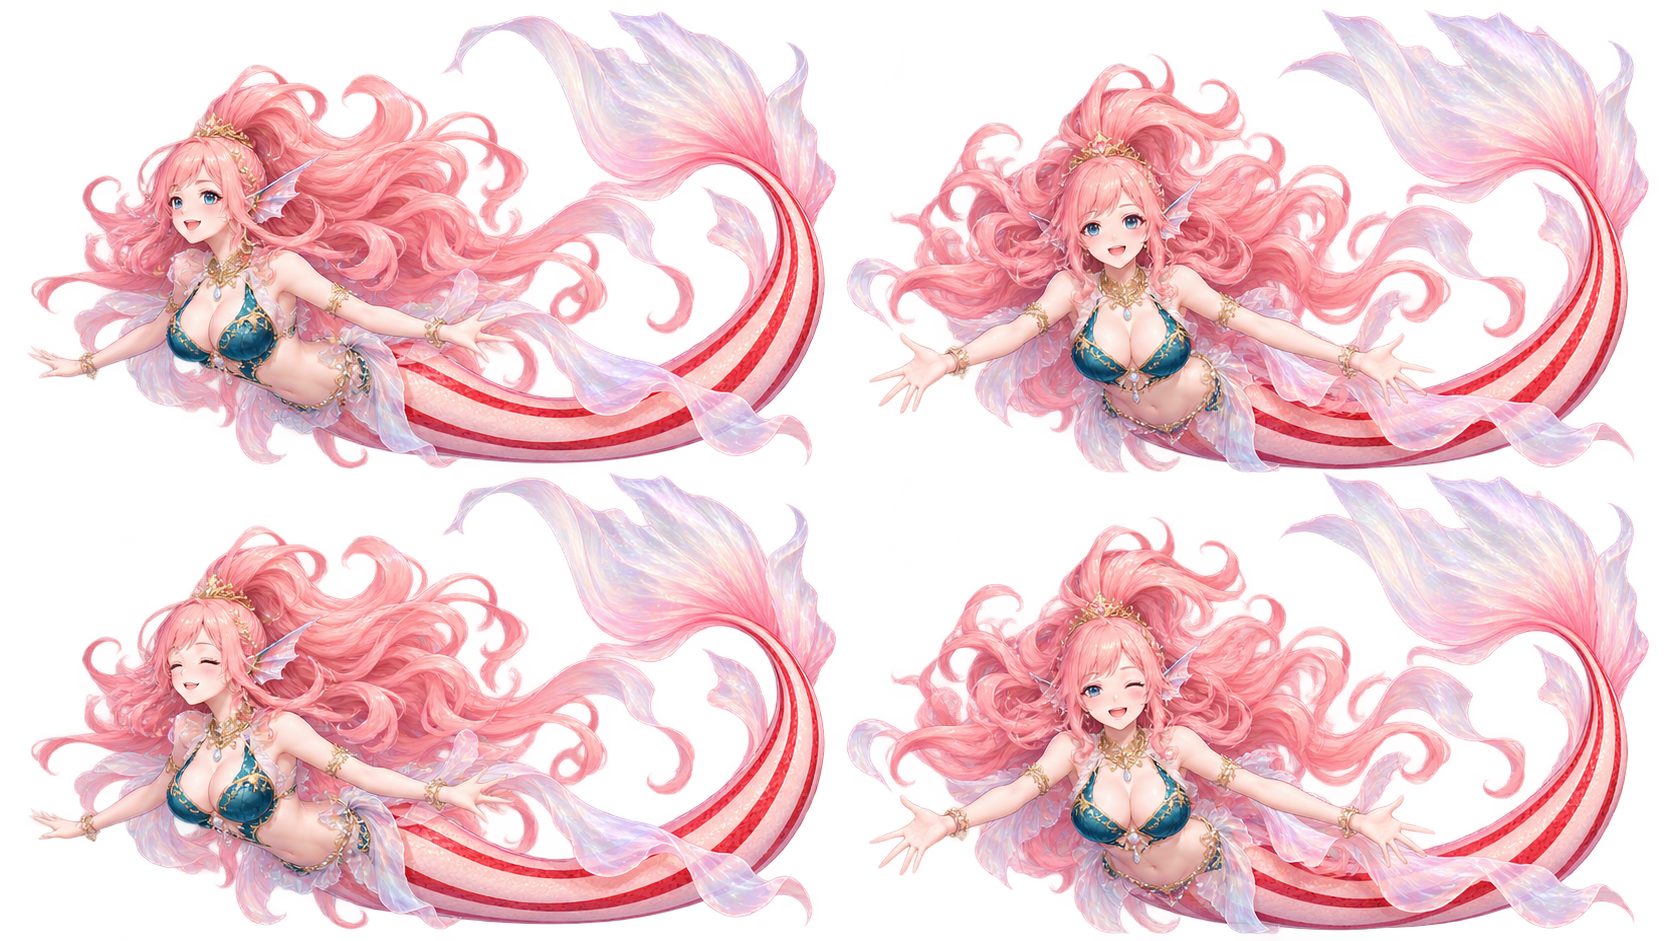
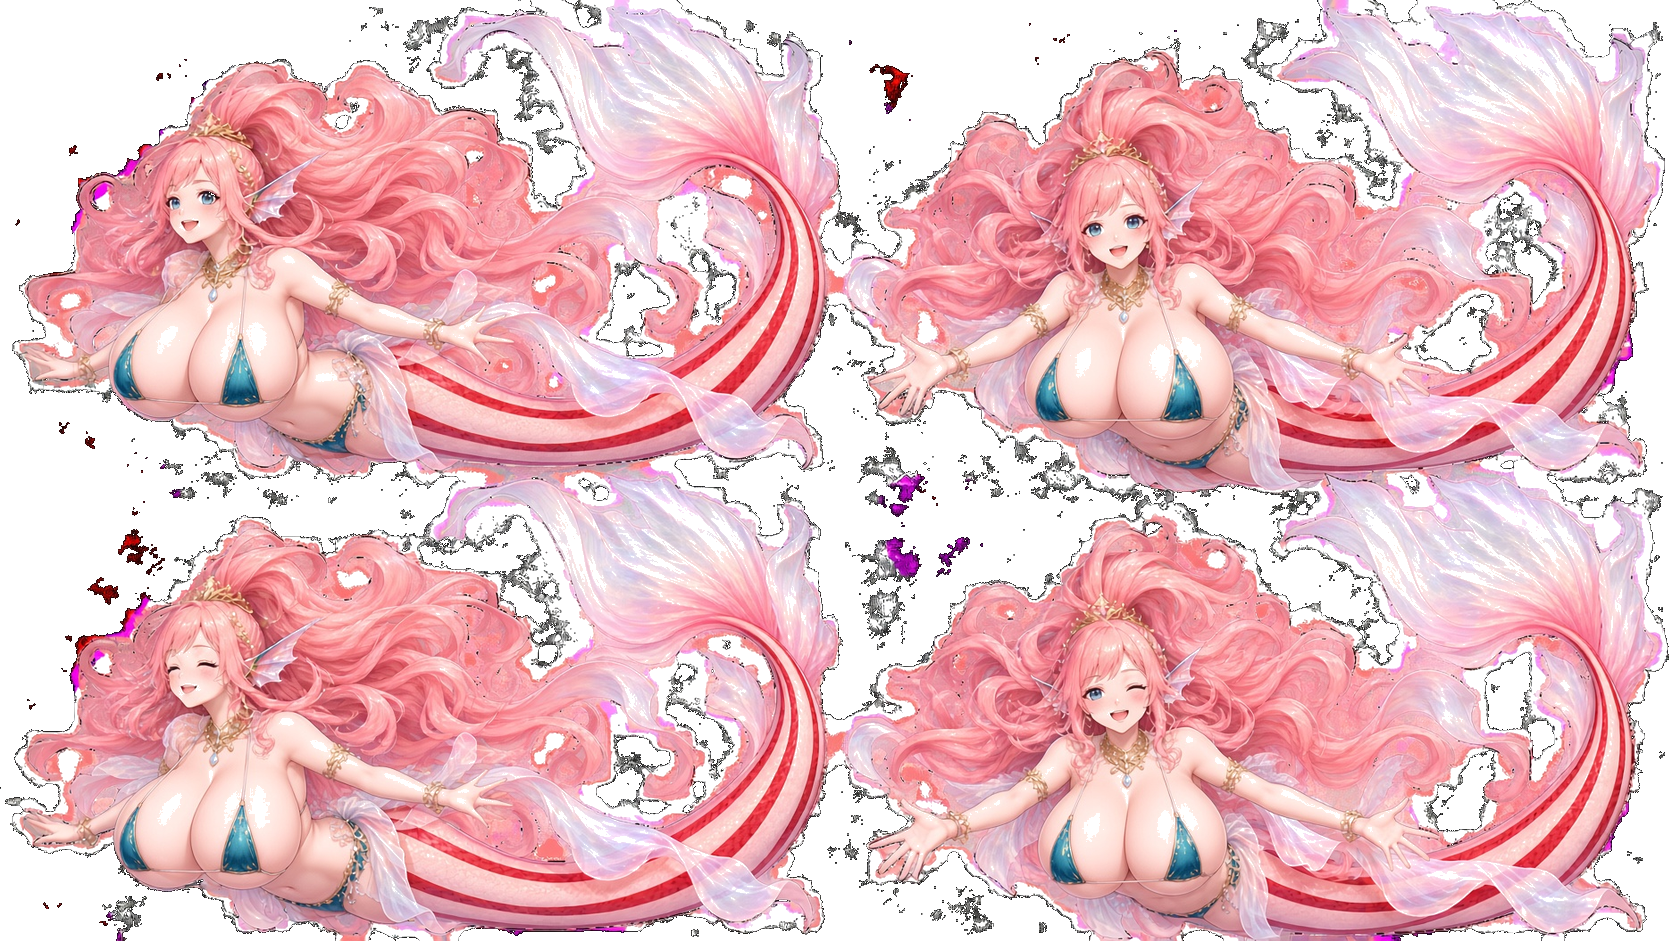
修改圖片素材

diff --git a/index.html b/index.html
@@ -1,5 +1,5 @@
 <!doctype html><html lang="zh-Hant"><head><meta charset="utf-8"><meta name="viewport" content="width=device-width,initial-scale=1,viewport-fit=cover"><meta name="theme-color" content="#102b34"><meta name="description" content="養大有名字的小魚，送牠上學，收藏閃亮寶石。支援手機、鍵盤與螢幕閱讀器的休閒水族箱。"><link rel="manifest" href="manifest.webmanifest"><link rel="icon" href="icon.svg" type="image/svg+xml"><link rel="stylesheet" href="style.css?v=0.41.2"><title>深海優游 · 你的療癒水族箱</title></head><body>
-<a class="skip" href="#controls">跳到遊戲操作</a><header><a class="brand" href="#">✦ <span>深海優游<small>DEEP SEA AQUARIUM</small></span></a><span class="version">養一片屬於你的海 <b>v0.41.2</b></span><button id="viewMode" aria-pressed="false">進入水族箱觀賞模式</button></header>
+<a class="skip" href="#controls">跳到遊戲操作</a><header><a class="brand" href="#">✦ <span>深海優游<small>DEEP SEA AQUARIUM</small></span></a><span class="version">養一片屬於你的海 <b>v0.41.3</b></span><button id="viewMode" aria-pressed="false">進入水族箱觀賞模式</button></header>
 <main><div class="intro"><div><p class="eyebrow">YOUR LITTLE OCEAN</p><h1 id="tankTitle">讓小小的相遇，慢慢長大。</h1><p id="welcomeText">從第一條魚苗開始，收藏每天的閃閃發光。</p></div><div class="wallet"><span>你的金幣</span><strong id="coins">500</strong><small>✦ 寶石能換成金幣</small></div></div>
 <div class="layout"><section class="ocean-wrap" aria-labelledby="sceneTitle"><div id="frameControls" hidden><button id="exitView" aria-label="返回養成模式" title="返回養成模式"><span aria-hidden="true">‹</span></button><span id="frameName"></span><span id="frameTheme"></span><span id="frameHint">橫放裝置，讓水族箱鋪滿畫面。</span><span id="frameStatus" class="sr-only" role="status" aria-live="polite"></span></div><div id="tank" class="tank" aria-hidden="true"><div id="wonderA" class="wonder-layer"></div><div id="wonderB" class="wonder-layer"></div><div class="wonder-water"></div><div class="lightbeam"></div><div class="water-halo"></div><div class="bubbles"><i></i><i></i><i></i><i></i><i></i></div><div class="rocks r1"></div><div class="rocks r2"></div><div class="plant p1">〰</div><div class="plant p2">〰</div><div class="sand"></div><div id="visualFish"></div><div id="visualGems"></div><div id="visualDecor"></div><div id="emptyScene"><span>✧</span><p>一片寧靜的海，等你帶小魚回家。</p></div></div><div class="scene-top"><h2 id="sceneTitle">我的水族箱</h2><span id="fishCount">0 / 15 條魚</span><div class="wallet tank-wallet" aria-label="你的金幣"><span>金幣</span><strong id="coinsTop">500</strong></div></div><div class="scene-bottom"><span>◌ <span id="sceneStatus">水族箱還沒有魚</span></span></div><div class="feed-options"><label for="feedGrade">選擇飼料（每條魚的價格）</label><select id="feedGrade"><option value="free">免費飼料 · 0 金幣 · 一般產寶間隔</option><option value="premium">高級飼料 · 100 金幣 · 間隔縮短 10%</option><option value="deluxe">特級飼料 · 200 金幣 · 間隔縮短 25%</option></select><details class="feed-help"><summary>餵食效果與批次說明</summary><p id="feedHelp">所選飼料適用於批次與個別餵食。批次餵食會跳過正在上課的魚，總價只計算實際餵食的魚；上課魚仍可個別餵食。每次恢復至 100% 飽食度；高級／特級飼料分別縮短 10%／25% 產寶間隔。效果持續至低於 10%，最多約 8 小時；換飼料取代原效果，不疊加；免費飼料會恢復一般產寶間隔。上課期間仍不產寶，效果時間照常經過。</p></details></div><div class="quick" id="controls"><button id="feedAll" class="primary">◌ 餵食所有小魚 <small>免費飼料</small></button><button id="collect" class="gold">✦ 收集全部寶石 <small id="gemSummary">還沒有寶石</small></button></div><p class="tip" id="tip">產寶間隔：魚苗 10 分鐘、幼魚 20 分鐘、少年魚 30 分鐘、青年魚 40 分鐘、成魚 60 分鐘。魚兒不會死亡，放心用自己的步調照顧。</p><p id="musicIndicator" class="tip">點一下遊戲按鈕，即可播放「深海夜曲」。</p><div id="announcement" role="status" aria-live="polite" aria-atomic="true">歡迎來到深海優游。</div></section>
 <aside class="panel"><nav aria-label="遊戲選單"><button data-tab="shop" aria-pressed="false">魚苗商店</button><button data-tab="fish" aria-pressed="true">我的魚群</button><button data-tab="school" aria-pressed="false">學園</button><button data-tab="settings" aria-pressed="false">更多</button></nav>
@@ -7,6 +7,6 @@
 <section id="fish" class="tab"><p class="eyebrow">GROW TOGETHER</p><h2 tabindex="-1">我的魚群</h2><p>魚苗 → 幼魚 → 少年魚 → 青年魚 → 成魚</p><p class="note">每條魚下方可選擇放生，確認後永久離開水族箱，不退還費用。</p><div id="fishItems" class="fish-list-scroll" tabindex="0" role="region" aria-label="我的魚群清單，可使用捲動查看所有魚隻"></div></section>
 <section id="school" class="tab" hidden><p class="eyebrow">LITTLE OCEAN ACADEMY</p><h2 tabindex="-1">小魚的上學時光</h2><p>魚苗就能報名幼兒園。完成幼兒園成為幼魚，完成小學成為少年魚，完成國中成為青年魚；高中與學院都完成才成為成魚。</p><div class="school-art" aria-hidden="true">♜<span>珊瑚學園</span>✦</div><div id="schoolItems"></div><p class="note">課程：幼兒園 12 小時／小學 36 小時／國中 60 小時／高中 84 小時／學院 108 小時。上課期間不產生寶石。每條魚各自進修，依序完成五個階段；每個課程同時僅限一隻魚就讀，不同課程可以同時上課。</p></section>
 <section id="settings" class="tab" hidden><p class="eyebrow">MAKE IT YOURS</p><h2 tabindex="-1">我的水族箱日常</h2><form id="renameForm"><label for="rename">水族箱名字</label><input id="rename" maxlength="24" required><button>儲存名字</button></form><h3>世界奇觀佈景</h3><p id="themeCurrent"></p><p>條件達成後永久解鎖。每 10 分鐘從已解鎖主題隨機輪換；首次圖片載入需連線。古代奇觀為藝術想像重建。</p><button id="shuffleTheme">隨機換一個已解鎖佈景</button><details id="themeCatalogue"><summary>查看 14 個佈景與解鎖條件</summary><div id="themeItems"></div></details><p id="themeNotice" role="status" aria-live="polite"></p><h3>收藏徽章</h3><div id="goalItems" class="goal-list" role="list" aria-label="海洋收藏目標"></div><h3>海底裝飾</h3><div id="decorItems"></div><h3>深海夜曲</h3><p>原創配樂以柔和電鋼琴、笛音、星光琴音與延展和聲交織，水光、漂流、月影、歸海四段緩慢變化，循環陪伴你的水族箱時光。</p><p id="musicStatus">第一次操作後會自動播放「深海夜曲」。</p><h3>存檔與操作</h3><p>音樂與音效會在第一次操作後持續播放。自動儲存在目前瀏覽器，電腦與手機各自存檔。匯出後可在另一台裝置匯入。</p><button id="export">匯出存檔</button><label class="file-label" for="import">匯入存檔（會取代目前進度）</label><input id="import" type="file" accept="application/json,.json"><p id="saveStatus">等待建立水族箱</p><details><summary>操作與遊戲說明</summary><p>使用 VoiceOver 右滑尋找按鈕、雙點執行；NVDA 或鍵盤使用 Tab 與 Enter。動畫不會搶焦點，寶石可一次收集。免費飼料只恢復飽食度；高級與特級飼料每條魚分別花費 100 與 200 金幣，產寶間隔分別縮短 10% 與 25%。飽食度由 100% 降至 10% 需要 8 小時，低於 10% 停止產生寶石；魚兒不會死亡。上課依實際經過時間計算，關閉遊戲仍持續計時；離線產寶最多結算 8 小時，寶石數量沒有上限。初始 500 金幣，最多養 15 條魚。成長由完成課程決定，等待與餵食不會提升階段；飽食度不影響課程計時。</p></details></section>
-</aside></div><footer>✦ 一點照顧，一點等待，一整片閃耀。 <span>原創養成小遊戲 · 觀賞模式 v0.41.2</span></footer></main>
+</aside></div><footer>✦ 一點照顧，一點等待，一整片閃耀。 <span>原創養成小遊戲 · 觀賞模式 v0.41.3</span></footer></main>
 <dialog id="startDialog" aria-labelledby="startTitle"><form id="startForm"><span class="dialog-symbol">✦</span><p class="eyebrow">WELCOME HOME</p><h2 id="startTitle">為你的海，取個名字。</h2><p>現在水族箱是空的。你有 500 金幣，去商店挑選第一位小夥伴吧。</p><label for="tankName">水族箱名字</label><input id="tankName" maxlength="24" placeholder="例如：優游之家" required><button class="primary">開始我的水族箱</button></form></dialog>
 <dialog id="buyDialog" aria-labelledby="buyTitle"><form id="buyForm"><h2 id="buyTitle">迎接新朋友</h2><p id="buyDescription"></p><label for="fishName">小魚的名字</label><input id="fishName" aria-describedby="buyError" maxlength="24" required placeholder="例如：橘子"><p id="buyError" role="alert"></p><div class="dialog-actions"><button type="button" id="cancelBuy">再想一下</button><button class="primary">確認購買並放入水族箱</button></div></form></dialog><dialog id="releaseDialog" aria-labelledby="releaseTitle" aria-describedby="releaseDescription"><form id="releaseForm"><h2 id="releaseTitle">確認放生</h2><p id="releaseDescription"></p><div class="dialog-actions"><button type="button" id="cancelRelease">留下這條魚</button><button type="submit" class="release-confirm">確認放生</button></div></form></dialog><script src="engine.js?v=0.41.2"></script><script src="swim.js?v=0.41.2"></script><script src="themes.js?v=0.41.2"></script><script src="score-data.js?v=0.41.2"></script><script src="score.js?v=0.41.2"></script><script src="music.js?v=0.41.2"></script><script src="frame-ui.js?v=0.41.2"></script><script src="app.js?v=0.41.2"></script></body></html>

diff --git a/sw.js b/sw.js
@@ -1,5 +1,5 @@
-const CACHE='starsea-v412',AUDIO_CACHE='starsea-music-v1';const AUDIO_LOADING=new Map();
-self.addEventListener('install',e=>{e.waitUntil(caches.open(CACHE).then(c=>c.addAll(['./','./index.html','./style.css?v=0.41.2','./engine.js?v=0.41.2','./swim.js?v=0.41.2','./themes.js?v=0.41.2','./score-data.js?v=0.41.2','./score.js?v=0.41.2','./music.js?v=0.41.2','./app.js?v=0.41.2','./frame-ui.js?v=0.41.2','./assets/fish/mermaid-sheet.png','./assets/fish/mermaid-straight-sheet-v26.png','./assets/fish/monster-mermaid-sheet-v38-loose-plum.png','./assets/fish/monster-mermaid-sheet-v37-pony-teal.png','./assets/fish/monster-mermaid-sheet-v37-pony-coral.png','./assets/fish/monster-mermaid-sheet-v38-loose-plum-body.png','./assets/fish/monster-mermaid-sheet-v38-loose-plum-tail.png','./assets/fish/monster-mermaid-sheet-v37-pony-teal-body.png','./assets/fish/monster-mermaid-sheet-v37-pony-teal-tail.png','./assets/fish/monster-mermaid-sheet-v37-pony-coral-body.png','./assets/fish/monster-mermaid-sheet-v37-pony-coral-tail.png','./icon.svg','./manifest.webmanifest'])));self.skipWaiting();});
+const CACHE='starsea-v413',AUDIO_CACHE='starsea-music-v1';const AUDIO_LOADING=new Map();
+self.addEventListener('install',e=>{e.waitUntil(caches.open(CACHE).then(c=>c.addAll(['./','./index.html','./style.css?v=0.41.3','./engine.js?v=0.41.3','./swim.js?v=0.41.3','./themes.js?v=0.41.3','./score-data.js?v=0.41.3','./score.js?v=0.41.3','./music.js?v=0.41.3','./app.js?v=0.41.3','./frame-ui.js?v=0.41.3','./assets/fish/mermaid-sheet.png','./assets/fish/mermaid-straight-sheet-v26.png','./assets/fish/monster-mermaid-sheet-v38-loose-plum.png','./assets/fish/monster-mermaid-sheet-v37-pony-teal.png','./assets/fish/monster-mermaid-sheet-v37-pony-coral.png','./assets/fish/monster-mermaid-sheet-v38-loose-plum-body.png','./assets/fish/monster-mermaid-sheet-v38-loose-plum-tail.png','./assets/fish/monster-mermaid-sheet-v37-pony-teal-body.png','./assets/fish/monster-mermaid-sheet-v37-pony-teal-tail.png','./assets/fish/monster-mermaid-sheet-v37-pony-coral-body.png','./assets/fish/monster-mermaid-sheet-v37-pony-coral-tail.png','./icon.svg','./manifest.webmanifest'])));self.skipWaiting();});
 self.addEventListener('activate',e=>e.waitUntil(Promise.all([self.clients.claim(),caches.keys().then(keys=>Promise.all(keys.filter(k=>k.startsWith('starsea-')&&k!==CACHE&&k!==AUDIO_CACHE).map(k=>caches.delete(k))))])));
 function byteRange(value,length){const match=/^bytes=(\d*)-(\d*)$/.exec(value||'');if(!match||(!match[1]&&!match[2]))return null;let start=match[1]?Number(match[1]):Math.max(0,length-Number(match[2])),end=match[1]?(match[2]?Number(match[2]):length-1):length-1;if(start>=length||end<start||!Number.isSafeInteger(start)||!Number.isSafeInteger(end))return null;return {start,end:Math.min(end,length-1)};}
 async function audioResponse(request){

diff --git a/README.md b/README.md
@@ -1,11 +1,22 @@
-# 深海優游 v0.41.2 觀賞模式修補
+# 深海優游 v0.41.3｜美人魚素材更新版
 
-影片中水族箱已進入網頁滿版觀賞模式，但 Chrome 的瀏覽器工具列仍可見。原因是 `frame-ui.js` 將瀏覽器原生 `setTimeout`／`clearTimeout` 當成普通函式呼叫，Chrome 因此拋出 `Illegal invocation`，使按鈕事件在發出全螢幕請求前中止。
+本更新包以 GitHub 專案 `main` 分支最新版本 v0.41.2 為基底（來源 commit `8a524c4c06c604890516ba574e48e3d996238016`），保留該版已完成的遊戲內容、課程與資源規則，以及觀賞模式全螢幕修正。
 
-## 安裝
+## 本版更新
 
-1. 將這個資料夾中的 `frame-ui.js` 放到 GitHub 專案根目錄，覆蓋同名檔案。
-2. 提交更新後，在 Chrome 用 `Ctrl + Shift + R` 強制重新載入遊戲。
-3. 點「進入水族箱觀賞模式」。若瀏覽器允許全螢幕，Chrome 工具列會隱藏；按 `Esc` 可離開。
+- 將繪圖修改後提供的 9 張美人魚 PNG，依遊戲使用的檔名放回 `assets/fish/`。
+- 圖片畫布尺寸、透明像素、姿勢格位置均未由本次打包流程修改；素材檔案位元組與收到的圖檔相同。
+- 更新網頁版本字樣與離線快取版本，避免瀏覽器繼續顯示舊素材。
+- 其他魚種、遊戲程式、背景、音樂和全螢幕控制沿用 v0.41.2。
 
-本修補沿用 v0.41.2 的檔名與網頁版本，僅替換觀賞模式控制程式。測試版仍會在觀賞模式閒置 4.5 秒後淡出控制按鈕，觸碰或按鍵可再次顯示。
+## 素材保護原則
+
+`assets/fish/` 內的美人魚 PNG 是本版採用的原始美術素材。後續製作游動動畫時，請只改程式中的動畫邏輯／CSS，或另外建立衍生工作檔；不要直接覆寫這些原始 PNG。需要新畫格或重繪素材時，保留原始檔並另存新檔。
+
+## 更新 GitHub Pages
+
+1. 解壓縮此 ZIP，進入遊戲根資料夾。
+2. 將根資料夾內的檔案與 `assets/` 資料夾更新到 GitHub 專案根目錄，覆蓋同名檔案。
+3. 提交並推送更新後，在瀏覽器強制重新整理（Windows Chrome：`Ctrl + Shift + R`）。
+
+玩家存檔仍保存在各自瀏覽器的本機儲存空間；本更新不會清除或改寫存檔。
